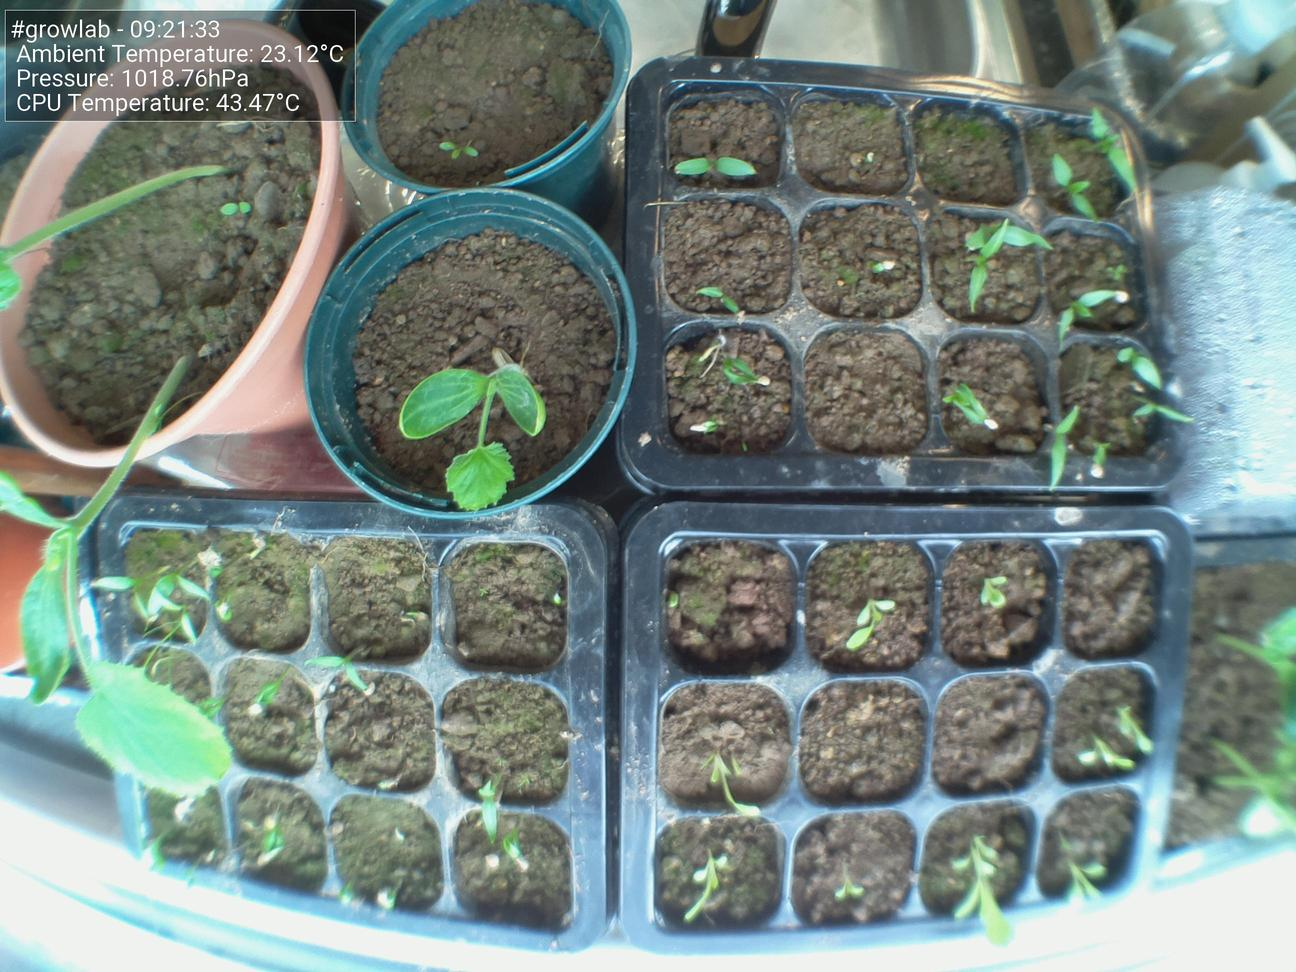
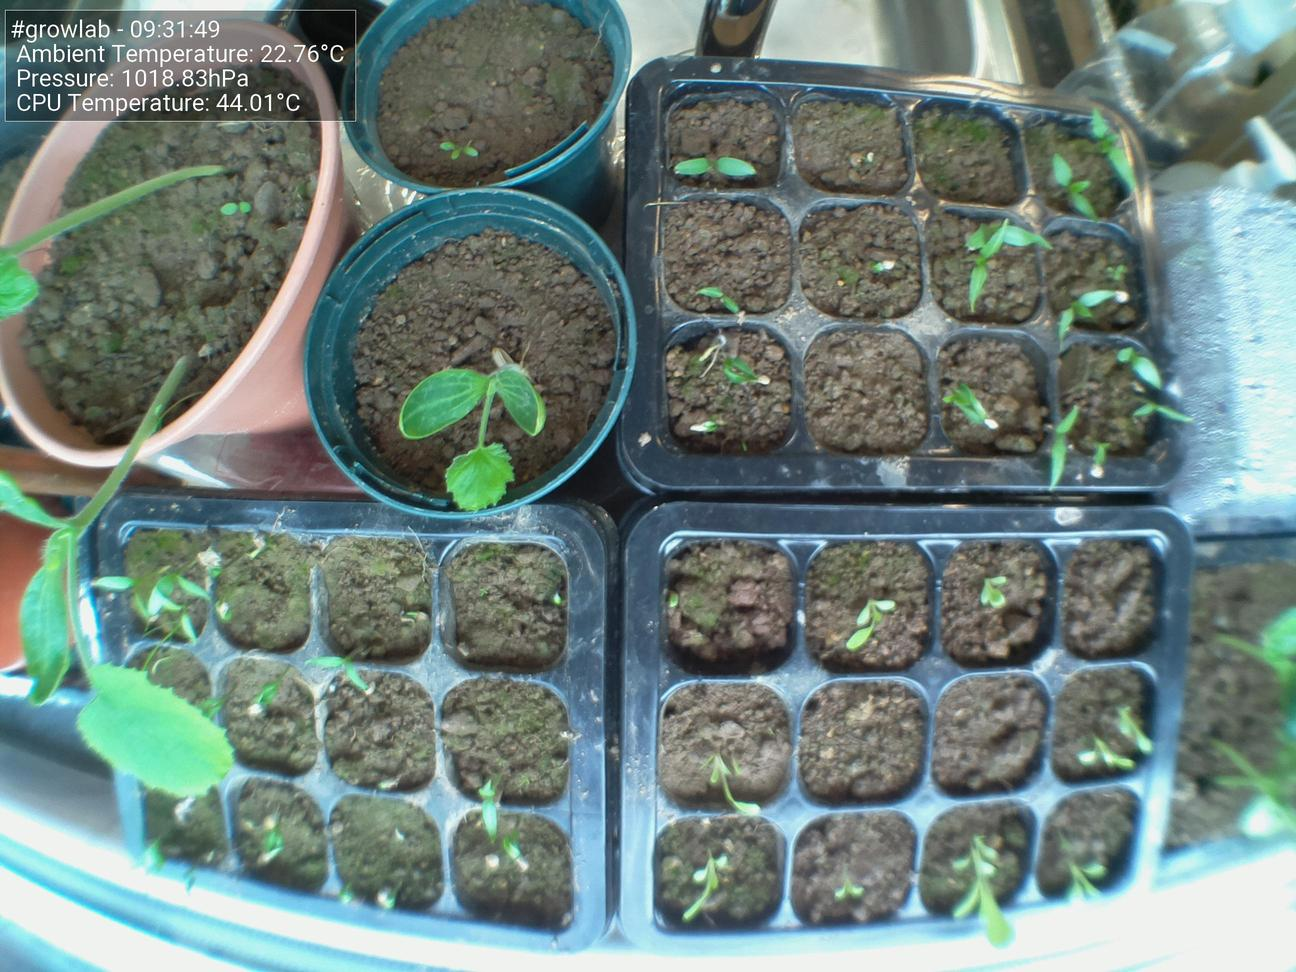
Update images at Sat  7 May 09:31:53 BST 2022

diff --git a/docs/index.html b/docs/index.html
@@ -44,15 +44,15 @@
                         <tbody>
                             <tr>
                                 <td>Time</td>
-                                <td>09:21:33</td>
+                                <td>09:31:49</td>
                             </tr>
                             <tr>
                                 <td>CPU Temp</td>
-                                <td>43.47°C</td>
+                                <td>44.01°C</td>
                             </tr>
                             <tr>
                                 <td>Ambient Temperature</td>
-                                <td>23.12°C</td>
+                                <td>22.76°C</td>
                             </tr>
                             <tr>
                                 <td>Humidity</td>
@@ -60,7 +60,7 @@
                             </tr>
                             <tr>
                                 <td>Pressure</td>
-                                <td>1018.76hPa</td>
+                                <td>1018.83hPa</td>
                             </tr>
                         </tbody>
                     </table>
@@ -68,7 +68,7 @@
 
                 <h5>Latest image</h5>
                 <div style="width: 85%;">
-                            <img class="figure-img img-fluid rounded" src="./preview.jpg?uid=1651911698.1623106">
+                            <img class="figure-img img-fluid rounded" src="./preview.jpg?uid=1651912313.045761">
                 </div>
             </div>
         </div>
